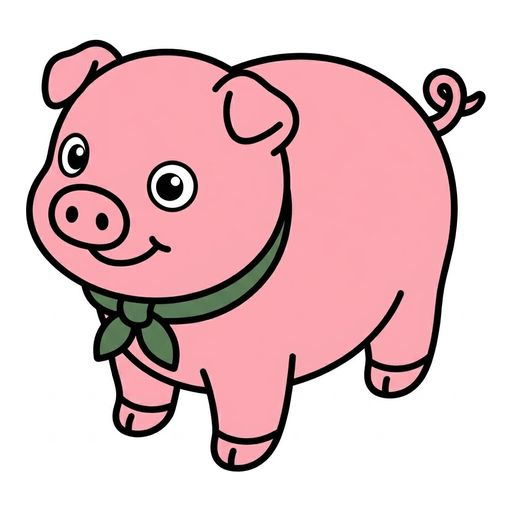
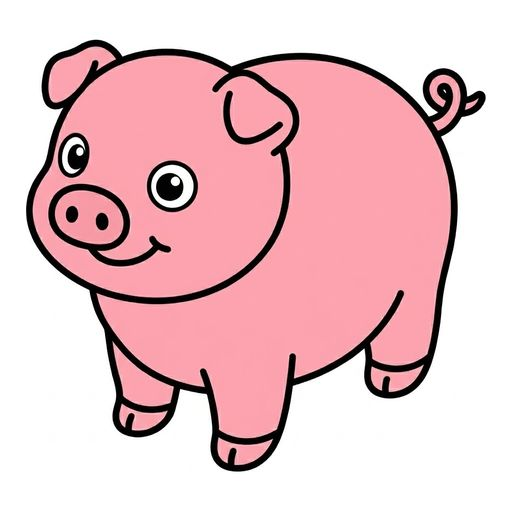
feat: 신규 카드 15개 추가 및 불필요한 카드 7개 삭제
- 추가: 말, 뱀, 사슴, 사자, 아보카도, 앵무새, 양, 여우, 옷걸이, 운동화, 장갑, 참새, 코스모스, 표범, 프라이팬
- 삭제: 기저귀, 나무, 나뭇잎, 목, 색연필, 이불, 창문, 치약
- 너구리, 돼지 이미지 재처리

Changed region(s): [[0.1562, 0.375, 0.5938, 0.75]]

diff --git a/src/data.ts b/src/data.ts
@@ -34,10 +34,7 @@ export const wordData = [
   { name: '고양이', file: 'cat.jpg', size: 'md' },
   { name: '귀', file: 'ear.jpg', size: 'md' },
   { name: '그릇', file: 'bowl.jpg', size: 'sm' },
-  { name: '기저귀', file: 'diaper.jpg', size: 'sm' },
   { name: '꽃', file: 'flower.jpg', size: 'sm' },
-  { name: '나무', file: 'tree.jpg', size: 'xl' },
-  { name: '나뭇잎', file: 'leaf.jpg', size: 'xs' },
   { name: '눈', file: 'eye.jpg', size: 'md' },
   { name: '달', file: 'moon.jpg', size: 'md' },
   { name: '마우스', file: 'mouse.jpg', size: 'sm' },
@@ -46,7 +43,6 @@ export const wordData = [
   { name: '변기', file: 'toilet.jpg', size: 'lg' },
   { name: '별', file: 'star.jpg', size: 'md' },
   { name: '새', file: 'bird.jpg', size: 'sm' },
-  { name: '색연필', file: 'colored_pencil.jpg', size: 'xs' },
   { name: '손', file: 'hand.jpg', size: 'md' },
   { name: '손톱깎이', file: 'nail_clipper.jpg', size: 'xs' },
   { name: '슬리퍼', file: 'slippers.jpg', size: 'sm' },
@@ -58,7 +54,6 @@ export const wordData = [
   { name: '자전거', file: 'bicycle.jpg', size: 'lg' },
   { name: '전자렌지', file: 'microwave.jpg', size: 'lg' },
   { name: '책', file: 'book.jpg', size: 'sm' },
-  { name: '치약', file: 'toothpaste.jpg', size: 'xs' },
   { name: '칫솔', file: 'toothbrush.jpg', size: 'xs' },
   { name: '코', file: 'nose.jpg', size: 'md' },
   { name: '키보드', file: 'keyboard.jpg', size: 'md' },
@@ -67,7 +62,6 @@ export const wordData = [
   { name: '팬더', file: 'panda.jpg', size: 'lg' },
   { name: '해', file: 'sun.jpg', size: 'md' },
   { name: '호랑이', file: 'tiger.jpg', size: 'lg' },
-  { name: '목', file: 'neck.jpg', size: 'md' },
   { name: '혀', file: 'tongue.jpg', size: 'md' },
   { name: '가방', file: 'bag.jpg', size: 'sm' },
   { name: '계란', file: 'egg.jpg', size: 'xs' },
@@ -80,8 +74,6 @@ export const wordData = [
   { name: '소', file: 'cow.jpg', size: 'xl' },
   { name: '시소', file: 'seesaw.jpg', size: 'xl' },
   { name: '우산', file: 'umbrella.jpg', size: 'sm' },
-  { name: '이불', file: 'blanket.jpg', size: 'lg' },
-  { name: '창문', file: 'window.jpg', size: 'lg' },
   { name: '토끼', file: 'rabbit.jpg', size: 'md' },
   { name: '거북이', file: 'turtle.jpg', size: 'md' },
   { name: '물고기', file: 'fish.jpg', size: 'sm' },
@@ -109,5 +101,20 @@ export const wordData = [
   { name: '너구리', file: 'raccoon_dog.jpg', size: 'md' },
   { name: '돼지', file: 'pig.jpg', size: 'lg' },
   { name: '리모컨', file: 'remote_control.jpg', size: 'sm' },
+  { name: '말', file: 'horse.jpg', size: 'xl' },
+  { name: '뱀', file: 'snake.jpg', size: 'md' },
+  { name: '사슴', file: 'deer.jpg', size: 'lg' },
+  { name: '사자', file: 'lion.jpg', size: 'lg' },
+  { name: '아보카도', file: 'avocado.jpg', size: 'xs' },
+  { name: '앵무새', file: 'parrot.jpg', size: 'md' },
+  { name: '양', file: 'sheep.jpg', size: 'lg' },
+  { name: '여우', file: 'fox.jpg', size: 'md' },
+  { name: '옷걸이', file: 'hanger.jpg', size: 'sm' },
+  { name: '운동화', file: 'sneakers.jpg', size: 'sm' },
+  { name: '장갑', file: 'gloves.jpg', size: 'sm' },
+  { name: '참새', file: 'sparrow.jpg', size: 'sm' },
+  { name: '코스모스', file: 'cosmos.jpg', size: 'sm' },
+  { name: '표범', file: 'leopard.jpg', size: 'lg' },
+  { name: '프라이팬', file: 'frying_pan.jpg', size: 'md' },
 
 ];
